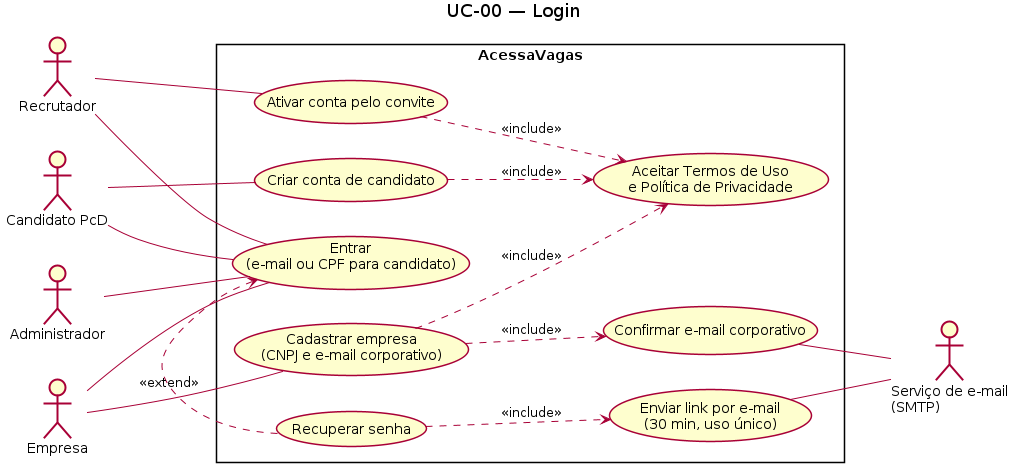
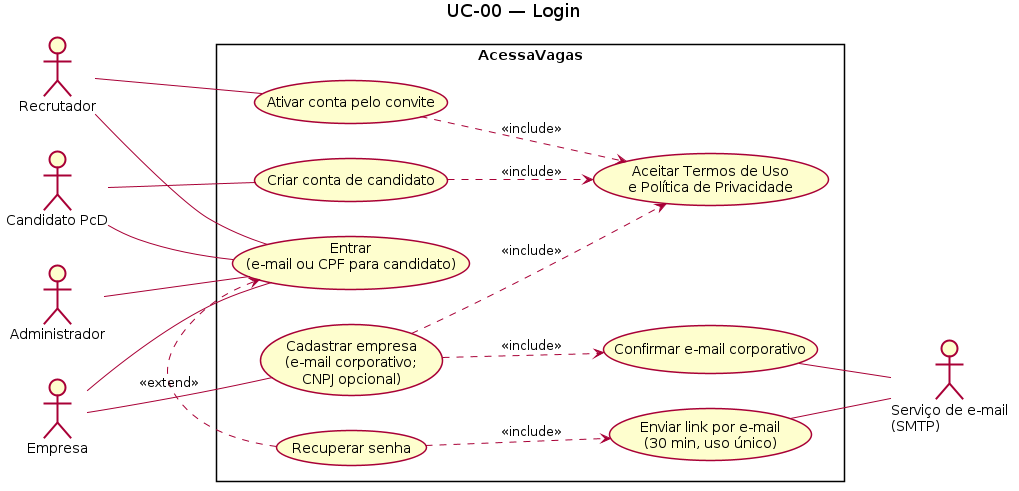
docs: alinhar documentação da main com a versão entregue
- SPEC-006 (vagas externas) registrada como implementação futura, com
  código só na branch desenvolvimento-do-projeto; OPEN-102 resolvida
  na main com a decisão de 24/11/2026.
- CNPJ opcional no UC-00, UC-geral, personas, visão e modelo conceitual
  (diagrama UC-00 regerado).
- Competências: nota de retorno na SPEC-002 e passo no roteiro manual.
- README com estado de 26/11/2026; regra do plano Hobby no deploy.
- Diagrama UC-14 atualizado. Nenhum código alterado.

Claude-Session: https://claude.ai/code/session_01YXXTaHD2ANVgomCBMh4Lbn

diff --git a/docs/OPEN.md b/docs/OPEN.md
@@ -2,10 +2,10 @@
 
 Este arquivo centraliza lacunas e decisões pendentes da baseline. Cada questão possui um ID estável e aponta para as Specs afetadas. A presença de uma questão aqui **não significa que a decisão já foi tomada**.
 
-## Situação em 23/11/2026
+## Situação em 26/11/2026
 
-- **94 questões** registradas (OPEN-001 a OPEN-101; a OPEN-102 existe só no PR #68, junto com a SPEC-006).
-- **84 resolvidas**, **1 parcialmente resolvida** (OPEN-008) e **9 abertas** (OPEN-092, 093, 095 a 101).
+- **95 questões** registradas (OPEN-001 a OPEN-102).
+- **85 resolvidas**, **1 parcialmente resolvida** (OPEN-008) e **9 abertas** (OPEN-092, 093, 095 a 101).
 - Todas as abertas já têm **implementação provisória** em funcionamento na `main`, descrita na própria linha; o que falta é a decisão definitiva do responsável. Nenhuma delas bloqueia o uso do sistema.
 
 | OPEN | Spec | O que está em vigor | O que falta decidir |
@@ -242,6 +242,7 @@ Antes de discutir OPEN-001 em diante, o grupo deve revisar e validar os seguinte
 | OPEN-099 | aberta | Qual o tamanho máximo dos comprovantes de cursos e certificações (SPEC-002) e onde eles ficam guardados na hospedagem? | Implementação provisória (01/11/2026, preparação para a Vercel): o limite passou de 10 MB para 4 MB, porque a Vercel recusa requisições acima de 4,5 MB; o conteúdo dos arquivos passou do disco do servidor para o banco de dados (tabela própria, acesso só pelo dono), já que a hospedagem não tem disco persistente. Arquivos enviados antes continuam sendo lidos da pasta local na instalação de desenvolvimento. Para voltar a 10 MB seria preciso envio direto a um serviço de armazenamento de arquivos (por exemplo, Vercel Blob), com URLs privadas e assinadas. |
 | OPEN-100 | aberta | Como o AcessaVagas informa e obtém o aceite dos titulares (LGPD) e o consentimento para os dados de acessibilidade, que são dados pessoais sensíveis (art. 5º, II, e art. 11)? | **Decisão do responsável em 05/11/2026 (opção completa), implementação provisória:** (1) páginas públicas de Termos de Uso (`/termos-de-uso`) e Política de Privacidade (`/privacidade`), versionadas (versão 2026-11-05), redigidas como rascunho acadêmico que descreve só o que o sistema faz (dados, finalidades, compartilhamento com empresas e com Vercel, Neon, Brevo e HERE, retenção, segurança, direitos e contato por `LEGAL_CONTACT_EMAIL`); (2) "Li e concordo" obrigatório e nunca pré-marcado no cadastro de candidato e de empresa e na ativação da conta de recrutador pelo convite, gravado com a versão na mesma transação que cria a conta (sem aceite, não há conta); (3) consentimento específico e destacado para os dados de acessibilidade no perfil do candidato: sem ele as necessidades e os recursos indispensáveis não são salvos, não entram na compatibilidade nem aparecem para as empresas (perfis antigos sem consentimento ficam sem uso até o candidato autorizar); a retirada apaga esses dados do perfil e é registrada; (4) histórico em `ConsentRecord`, só de inclusão (gatilho no banco recusa alterações), e eventos de auditoria. A frase "Ao continuar, você concorda…" da página inicial (aceite presumido) foi substituída por links. **Em aberto:** revisão jurídica dos textos; pedido de novo aceite a contas criadas antes desta versão; exclusão de conta pelo próprio usuário (hoje por contato com a equipe). |
 | OPEN-101 | aberta | Como o site evita a perda de alterações não salvas e como funciona a foto de perfil? | **Decisão do responsável em 09/11/2026, implementação provisória:** (1) ao sair de uma página com alterações não salvas (perfil do candidato, editor de vaga, infraestrutura da empresa) por um link do site ou por "Sair da conta", aparece o aviso "Deseja salvar as alterações antes de sair?" com "Salvar e sair" (só sai se o salvamento der certo), "Sair sem salvar" e "Cancelar" (Esc e foco inicial no diálogo); nos formulários que enviam em vez de salvar (denúncia e avaliação do processo) o aviso é "Sair sem enviar?"; ao recarregar, fechar a aba ou ir para outro site, o navegador mostra o aviso genérico dele (o texto não pode ser personalizado); (2) foto de perfil opcional para candidato e recrutador, cortada no navegador em quadrado de 512 px JPEG, até 1 MB, só JPG, PNG ou WebP (o tipo é conferido pelos bytes), guardada no banco (tabela `UserPhoto`, apagada junto com a conta), servida só ao dono e, no caso do candidato, às empresas e recrutadores das vagas em que ele se candidatou (escolha do responsável); troca e remoção ficam na auditoria; a Política de Privacidade passou à versão 2026-11-09. **Limitação conhecida:** o botão Voltar do navegador não mostra o aviso. **Em aberto:** se a foto deve ser ocultada das empresas até alguma etapa do processo, para reduzir viés na seleção. |
+| OPEN-102 | resolvida | Como a SPEC-006 entra nesta versão do projeto? | **Decisão do responsável em 24/11/2026:** a SPEC-006 (vagas externas do Adzuna) fica fora da versão entregue, como implementação futura. O código (lote de teste de 25 chamadas, coleta diária desligada, LLM desligada por padrão, vaga externa sem candidatura nem denúncia e sem cálculo de compatibilidade) está só na branch `desenvolvimento-do-projeto` (PR #68) e não vai para a `main`. Substitui a decisão de 18/11/2026, que previa a entrada na versão se estivesse pronta e testada até 21/11/2026. Na `main`, RF-05, RF-36 e RF-37 seguem como *Optional feature* e a busca mostra só vagas publicadas na plataforma. |
 
 ## Decisões consolidadas
 

diff --git a/README.md b/README.md
@@ -18,7 +18,7 @@ Repositório para o trabalho de modelagem de sistemas - GRUPO: Gabriella Mansur 
   * Com dados faltando, o resultado é "dados insuficientes", sem presumir compatibilidade.
 * **Avaliação pós-entrevista:** depois de uma entrevista concluída, o candidato avalia acessibilidade e postura inclusiva (1 a 5 estrelas). A nota pública da empresa mostra só a distribuição de estrelas, sem identificar ninguém.
 * **Denúncia moderada:** quem participou do processo pode denunciar incompatibilidade ou falsa inclusão; a administração analisa em até 5 dias úteis, pode ouvir a empresa (sem revelar o denunciante) e registra a decisão.
-* **Publicação nativa de vagas:** a empresa e seus recrutadores cadastram vagas declarando a acessibilidade item a item. Vagas externas (SPEC-006) estão em revisão no PR #68 e não fazem parte da versão atual.
+* **Publicação nativa de vagas:** a empresa e seus recrutadores cadastram vagas declarando a acessibilidade item a item. Vagas externas (SPEC-006) ficaram como implementação futura, fora da versão entregue: o código está só na branch `desenvolvimento-do-projeto` (OPEN-102).
 * **Acessibilidade por design (WCAG 2.2 AA):** em conformidade com a Lei Brasileira de Inclusão (LBI nº 13.146/2015): leitores de tela, navegação por teclado, alto contraste e tema escuro. Comandos de voz próprios não fazem parte desta versão.
 * **Funil seletivo transparente:** etapas, histórico e entrevistas visíveis ao candidato, com avisos na plataforma e por e-mail a cada mudança.
 
@@ -47,10 +47,11 @@ O projeto segue o processo SDD (Spec-Driven Development). A documentação fica 
 | Operação, publicação e roteiros de teste manual | [`docs/operacao/`](docs/operacao/) |
 | Identidade visual e layout | [`docs/Identidade Visual/`](docs/Identidade%20Visual/), [`docs/layout/`](docs/layout/) |
 
-# Estado atual (23/11/2026)
+# Estado atual (26/11/2026)
 
 - **Implementado na `main`:** SPEC-001 a SPEC-005 e SPEC-007 a SPEC-021: cadastro e entrada dos quatro perfis, perfil do candidato com consentimento para dados de acessibilidade, infraestrutura da empresa e recrutadores, vagas, compatibilidade, busca, candidatura, funil com entrevistas, avisos, avaliação, nota pública, denúncias e moderação.
-- **Em revisão:** SPEC-006 (vagas externas, PR #68) e roteiro de comandos de voz (PR #67).
+- **Mudanças de 24/11/2026:** o perfil do candidato voltou a ter o campo Competências, usado também no cálculo do perfil técnico da compatibilidade; a busca deixou de ter o filtro por cargo e as listas de Localização e Área profissional ficam recolhidas quando têm mais de 6 opções.
+- **Implementações futuras (fora da versão entregue):** SPEC-006 (vagas externas do Adzuna), com código só na branch `desenvolvimento-do-projeto` (OPEN-102), e comandos de voz próprios (roteiro proposto no PR #67, fechado sem merge).
 - **Situação das SPEC-019 e SPEC-020:** implementadas; o estado de teste manual e de layout está no registro consolidado de `docs/Specs.md`. As questões abertas estão resumidas em `docs/OPEN.md`.
 - **Qualidade:** a CI roda checagem de tipos, lint, testes (Vitest, com verificação axe-core das telas), build e o teste de ponta a ponta `scripts/auth-e2e.mjs` em todo pull request.
 

diff --git a/docs/Specs.md b/docs/Specs.md
@@ -1257,8 +1257,8 @@ dos em `docs/layout/` e aprovados separadamente.
 | Campo | Valor |
 |---|---|
 | ID | SPEC-006 |
-| Estado do texto | aprovada; **não implementada na `main`**. A implementação está em revisão no PR #68 (branch `feat/spec-006-vagas-externas`) e a decisão de incluí-la no escopo ainda não foi tomada. Por isso os critérios abaixo continuam desmarcados e RF-05, RF-36 e RF-37 são tratados como *Optional feature* |
-| Estado do layout | não se aplica ao núcleo de ingestão; a tela administrativa `/admin/vagas-externas` existe só no PR #68, sem aprovação de layout |
+| Estado do texto | aprovada; **não implementada na `main`**. Decisão de 24/11/2026 (OPEN-102): fica como implementação futura, fora da versão entregue; o código está só na branch `desenvolvimento-do-projeto` (PR #68). Por isso os critérios abaixo continuam desmarcados e RF-05, RF-36 e RF-37 são tratados como *Optional feature* |
+| Estado do layout | não se aplica ao núcleo de ingestão; a tela administrativa `/admin/vagas-externas` existe só na branch `desenvolvimento-do-projeto`, sem aprovação de layout |
 | Capacidade | Receber dados externos estruturados, validar, normalizar, deduplicar e registrar o resultado da ingestão |
 
 ## 2. Rastreabilidade
@@ -3227,7 +3227,7 @@ As decisões de apresentação por estrelas, mínimo de uma avaliação válida 
 | SPEC-009 a SPEC-013 | aprovadas | Nenhum bloqueio por OPEN-088. SPEC-010 depende da SPEC-007. |
 | SPEC-016 a SPEC-021 | aprovadas | Nenhum bloqueio por OPEN-088. |
 
-### Situação da implementação (main, 23/11/2026)
+### Situação da implementação (main, 26/11/2026)
 
 | Spec | Situação | Pendências registradas |
 |---|---|---|
@@ -3236,7 +3236,7 @@ As decisões de apresentação por estrelas, mínimo de uma avaliação válida 
 | SPEC-003 | implementada e encerrada (28/10/2026), exceto comandos de voz | voz (PR #67); plano formal de avaliação (OPEN-015/016) |
 | SPEC-004 | implementada e encerrada (27/10/2026), exceto divergências recorrentes (seção 5.5) | RB-08 adiada |
 | SPEC-005 | implementada (27/10/2026 e 31/10/2026) | — |
-| SPEC-006 | **não implementada na `main`**; implementação em revisão no PR #68 | decisão de escopo pendente |
+| SPEC-006 | **não implementada na `main`**; implementação futura, com código só na branch `desenvolvimento-do-projeto` | fora da versão entregue (OPEN-102) |
 | SPEC-007 | implementada e encerrada (29/10/2026), exceto critérios de vagas externas | depende da SPEC-006 |
 | SPEC-008 | implementada e encerrada (29/10/2026), exceto vagas externas | depende da SPEC-006; desempenho sem medição formal |
 | SPEC-009 | implementada e encerrada (31/10/2026) | — |

diff --git a/docs/mapa-specs.md b/docs/mapa-specs.md
@@ -15,7 +15,7 @@ A decomposição segue o critério do processo SDD: **capacidades verticais obse
 
 **Escopo atualizado:** SPEC-014 (Solicitar acomodação) e SPEC-015 (Processar solicitação de acomodação) foram removidas do escopo. Os IDs posteriores foram preservados para evitar quebrar rastreabilidade.
 
-**Situação (23/11/2026):** todas as Specs estão implementadas na `main`, exceto a SPEC-006 (vagas externas), cuja implementação está em revisão no PR #68 com decisão de escopo pendente. A situação detalhada de cada Spec está no "Registro consolidado" ao final de `docs/Specs.md`. Os nomes de entidades seguem o modelo conceitual atual (`docs/Modelo Conceitual/ModeloConceitual.md`).
+**Situação (26/11/2026):** todas as Specs estão implementadas na `main`, exceto a SPEC-006 (vagas externas), que ficou como implementação futura, fora da versão entregue; o código dela está só na branch `desenvolvimento-do-projeto` (OPEN-102). A situação detalhada de cada Spec está no "Registro consolidado" ao final de `docs/Specs.md`. Os nomes de entidades seguem o modelo conceitual atual (`docs/Modelo Conceitual/ModeloConceitual.md`).
 
 ### SPEC-001 — Acessar a plataforma e identificar perfil organizacional
 
@@ -107,7 +107,7 @@ A decomposição segue o critério do processo SDD: **capacidades verticais obse
 | Campo | Conteúdo |
 |---|---|
 | **ID** | SPEC-006 |
-| **Objetivo** | Ingerir dados estruturados de fontes externas, especialmente vagas, validar o JSON recebido, tratar registros inválidos ou incompletos, validar dados extraídos por LLM, normalizar e deduplicar registros e registrar a origem e o resultado da importação antes de disponibilizar vagas válidas ao domínio, preservando os registros válidos existentes. **Situação:** não implementada na `main`; implementação em revisão no PR #68. |
+| **Objetivo** | Ingerir dados estruturados de fontes externas, especialmente vagas, validar o JSON recebido, tratar registros inválidos ou incompletos, validar dados extraídos por LLM, normalizar e deduplicar registros e registrar a origem e o resultado da importação antes de disponibilizar vagas válidas ao domínio, preservando os registros válidos existentes. **Situação:** não implementada na `main`; implementação futura, fora da versão entregue, com código só na branch `desenvolvimento-do-projeto` (OPEN-102). |
 | **Valor** | Integra fontes externas ao AcessaVagas de forma controlada, ampliando o catálogo sem perder integridade, rastreabilidade ou padronização. |
 | **RF** | RF-05, RF-36, RF-37, RF-38, RF-39 |
 | **RB** | RB-10, RB-11, RB-17, RB-18, RB-31, RB-32, RB-33, RB-37, RB-41 |

diff --git a/docs/ADRs/ADRs.md b/docs/ADRs/ADRs.md
@@ -34,7 +34,7 @@ As ADRs registram **o que foi escolhido** quando a escolha é estrutural e difí
 | ADR-004 | Arquitetura em camadas | Alterar posteriormente a organização estrutural exigiria redistribuir responsabilidades e dependências do sistema |
 | ADR-005 | Aplicação web única em Next.js (TypeScript) com PostgreSQL via Prisma | Trocar framework, linguagem ou banco exigiria reescrever telas, rotas, modelo persistido e migrações |
 
-Status de todas: **aceita**. As ADR-001, 002, 004 e 005 estão aplicadas no código desde a primeira implementação (SPEC-001, outubro de 2026); a ADR-004 com desvios registrados. A ADR-003 é a diretriz para quando houver LLM: nesta versão a aplicação não usa LLM (a SPEC-006, única que a usaria, não está implementada na `main`; ver PR #68).
+Status de todas: **aceita**. As ADR-001, 002, 004 e 005 estão aplicadas no código desde a primeira implementação (SPEC-001, outubro de 2026); a ADR-004 com desvios registrados. A ADR-003 é a diretriz para quando houver LLM: nesta versão a aplicação não usa LLM (a SPEC-006, única que a usaria, ficou como implementação futura, com código só na branch `desenvolvimento-do-projeto`).
 
 Cada ADR tem **Status**, **Contexto (por que foi tomada)**, **Decisão**, **Alternativas consideradas** e **Consequências**.
 
@@ -169,7 +169,7 @@ A autorização é aplicada antes da execução das operações de escrita e das
 
 ## Status
 
-Aceita como diretriz. **Não aplicada nesta versão:** a aplicação da `main` não usa LLM. A única funcionalidade que usaria (complemento de dados de vagas externas, SPEC-006) está no PR #68, ainda em análise; nele, a LLM fica atrás de uma porta, só no servidor e desligada por padrão.
+Aceita como diretriz. **Não aplicada nesta versão:** a aplicação da `main` não usa LLM. A única funcionalidade que usaria (complemento de dados de vagas externas, SPEC-006) ficou como implementação futura (OPEN-102), com código só na branch `desenvolvimento-do-projeto`; nele, a LLM fica atrás de uma porta, só no servidor e desligada por padrão.
 
 ## Decisão
 

diff --git a/docs/Drivers Arquiteturais/Drivers Arquiteturais.md b/docs/Drivers Arquiteturais/Drivers Arquiteturais.md
@@ -389,8 +389,8 @@ Esse conjunto representa as principais restrições que o desenho arquitetural p
 | DA-02 Autenticação e autorização | Atendido: sessão no servidor, Argon2id, bloqueio por tentativas, verificação de perfil em toda rota de API | `src/lib/auth`, `src/lib/security`, `src/app/api` |
 | DA-03 Trava de barreira crítica | Atendido: a trava roda antes do cálculo ponderado e prevalece sobre o score | `src/lib/compatibility/engine.ts` |
 | DA-04 Cálculo determinístico | Atendido: função pura, pesos 50/30/20, resultado registrado com versão das regras | `src/lib/compatibility` |
-| DA-05 LLM opcional e substituível | Não aplicado na `main`: não há uso de LLM. A implementação da SPEC-006 (PR #68, em revisão) usa LLM opcional atrás de um adaptador, desligada por padrão | PR #68 |
-| DA-06 Padronização de vagas de várias fontes | Parcial: o modelo de vaga tem o campo `origem`, mas só existe a origem própria. A normalização de vagas externas depende da SPEC-006 | `prisma/schema.prisma` (`Job.origin`), PR #68 |
+| DA-05 LLM opcional e substituível | Não aplicado na `main`: não há uso de LLM. A implementação futura da SPEC-006 (só na branch `desenvolvimento-do-projeto`) usa LLM opcional atrás de um adaptador, desligada por padrão | branch `desenvolvimento-do-projeto` |
+| DA-06 Padronização de vagas de várias fontes | Parcial: o modelo de vaga tem o campo `origem`, mas só existe a origem própria. A normalização de vagas externas depende da SPEC-006 (implementação futura) | `prisma/schema.prisma` (`Job.origin`) |
 | DA-07 Rastreabilidade e anonimato das avaliações | Atendido: avaliações individuais restritas, nota pública só agregada, anonimização após 1 ano, histórico imutável no banco | `src/lib/evaluations`, `src/lib/public-rating`, `scripts/evaluation-retention.mjs` |
 | DA-08 Desempenho | Atendido: chamadas externas com tempo limite (trajeto 8 s), cache do trajeto, e-mails enviados fora da requisição principal | `src/lib/compatibility/travel.ts`, `src/lib/notifications` |
 

diff --git a/docs/Implementacao/SPEC-002.md b/docs/Implementacao/SPEC-002.md
@@ -52,7 +52,7 @@
 
 ## Revisão de 27/10/2026
 
-- Experiências profissionais voltaram à tela como entradas estruturadas (`role`, `company`, `period`); registros antigos em texto são lidos com o texto no cargo. O campo Competências foi retirado da tela, do contrato da API e da validação (a coluna `skills` permanece no banco, sem uso, para evitar migração). Impacto: a SPEC-007 usa competências no perfil técnico e as derivará de escolaridade (nível e curso), cursos, certificações e experiências. Cursos e certificações podem ser registrados só com o nome, e o anexo é opcional.
+- Experiências profissionais voltaram à tela como entradas estruturadas (`role`, `company`, `period`); registros antigos em texto são lidos com o texto no cargo. O campo Competências foi retirado da tela, do contrato da API e da validação (a coluna `skills` permaneceu no banco, sem uso, para evitar migração); ele voltou em 24/11/2026 (ver "Competências" abaixo). Impacto: a SPEC-007 usa competências no perfil técnico e as derivará de escolaridade (nível e curso), cursos, certificações e experiências. Cursos e certificações podem ser registrados só com o nome, e o anexo é opcional.
 - Formação e idiomas passaram a ser objetos estruturados (formação: `level`, `course`, `institution`, `status`; idioma: `language`, `level`), validados no servidor com listas fechadas de nível e situação. Registros antigos em texto "campo — campo" são lidos de forma compatível e convertidos no próximo salvamento; a detecção de mudança para auditoria compara JSON canônico (chaves ordenadas).
 - Rótulos sem controle associado foram corrigidos; botões de remover e baixar identificam o item; a troca da declaração de necessidades pede confirmação quando há seleções.
 - Envio e remoção de anexos geram auditoria (`CANDIDATE_PROFILE_DOCUMENT_ADDED` / `_REMOVED`), registrando só a categoria.

diff --git a/docs/Casos De Uso/UC-geral.md b/docs/Casos De Uso/UC-geral.md
@@ -5,7 +5,7 @@
 | Ator | Quem é | Como entra |
 |---|---|---|
 | Candidato PcD | Pessoa com deficiência procurando vaga | Cria a própria conta; entra com e-mail ou CPF |
-| Empresa | Conta organizacional, com CNPJ e e-mail corporativo confirmado | Cria a própria conta; entra com e-mail |
+| Empresa | Conta organizacional, com e-mail corporativo confirmado (CNPJ opcional) | Cria a própria conta; entra com e-mail |
 | Recrutador | Pessoa convidada pela Empresa, com vínculo ativo | Aceita o convite da Empresa; entra com e-mail |
 | Administrador | Equipe da plataforma | Conta criada pela equipe; entra por `/admin/login` |
 | Serviço de trajeto (HERE) | Sistema externo | Ator secundário do UC-13 |
@@ -31,7 +31,7 @@ Empresa e Recrutador fazem as mesmas operações de vagas e funil, sempre sobre 
 | UC-11 | Denunciar vaga incompatível | Candidato, Administrador, Empresa | Implementado (SPEC-019, SPEC-020) |
 | UC-12 | Status da vaga | Candidato | Implementado (SPEC-009, SPEC-010) |
 | UC-13 | Calcular compatibilidade | Candidato, HERE | Implementado (SPEC-007) |
-| UC-14 | Coletar e ingerir vagas externas | Sistema, Adzuna, Administrador | Não implementado na `main` (SPEC-006 em revisão no PR #68) |
+| UC-14 | Coletar e ingerir vagas externas | Sistema, Adzuna, Administrador | Não implementado na `main`: implementação futura (SPEC-006, OPEN-102) |
 
 Os avisos (na plataforma e por e-mail, SPEC-017) acompanham UC-03, UC-05, UC-08, UC-09 e UC-11 e não têm caso de uso próprio.
 

diff --git a/docs/Requisitos/RF.md b/docs/Requisitos/RF.md
@@ -109,19 +109,19 @@ Comandos de voz próprios do sistema não fazem parte desta versão (seção 5.4
 
 ### RF-05 Importação de vagas externas
 
-**Tipo EARS:** Optional feature · **Specs:** SPEC-006 (decisão de escopo pendente)
+**Tipo EARS:** Optional feature · **Specs:** SPEC-006 (implementação futura, fora da versão entregue)
 
 **WHERE** a importação de vagas externas estiver habilitada, o sistema **SHALL** mostrar ao candidato as vagas externas validadas, com a origem e o link do anúncio original (RB-10, RB-33).
 
 ### RF-36 Importação de dados estruturados
 
-**Tipo EARS:** Optional feature · **Specs:** SPEC-006 (decisão de escopo pendente)
+**Tipo EARS:** Optional feature · **Specs:** SPEC-006 (implementação futura, fora da versão entregue)
 
 **WHERE** a importação de vagas externas estiver habilitada, o sistema **SHALL** receber as vagas no formato JSON da fonte autorizada, respeitando o limite de chamadas configurado, e **SHALL** registrar cada execução e o resultado de cada registro.
 
 ### RF-37 Normalização de dados externos
 
-**Tipo EARS:** Optional feature · **Specs:** SPEC-006 (decisão de escopo pendente)
+**Tipo EARS:** Optional feature · **Specs:** SPEC-006 (implementação futura, fora da versão entregue)
 
 **WHERE** a importação de vagas externas estiver habilitada, o sistema **SHALL** converter cada registro válido para o modelo comum de vaga e descartar duplicados (RB-31), sem presumir dados de acessibilidade.
 

diff --git a/docs/Casos De Uso/UC-14-ingestao-json.md b/docs/Casos De Uso/UC-14-ingestao-json.md
@@ -1,6 +1,6 @@
 # UC-14 — Coletar e Ingerir Vagas Externas
 
-> **Situação nesta versão (main):** não implementado. A implementação (SPEC-006) está em revisão no PR #68 e a decisão de incluí-la no escopo ainda não foi tomada. No PR #68, a complementação por LLM (ADR-003) é opcional e vem desligada por padrão; desligada, os registros sem os dados mínimos são rejeitados. Enquanto isso, RF-05, RF-36 e RF-37 ficam como requisitos opcionais (*Optional feature*) e a busca e a candidatura consideram somente vagas publicadas por empresas na plataforma. O fluxo abaixo descreve o comportamento previsto na SPEC-006.
+> **Situação nesta versão (main):** não implementado. Decisão de 24/11/2026 (OPEN-102): a SPEC-006 fica como implementação futura, fora da versão entregue; o código está só na branch `desenvolvimento-do-projeto`. Nesse código, a complementação por LLM (ADR-003) é opcional e vem desligada por padrão; desligada, os registros sem os dados mínimos são rejeitados. Enquanto isso, RF-05, RF-36 e RF-37 ficam como requisitos opcionais (*Optional feature*) e a busca e a candidatura consideram somente vagas publicadas por empresas na plataforma. O fluxo abaixo descreve o comportamento previsto na SPEC-006.
 
 ## Objetivo
 Coletar automaticamente vagas de fontes externas autorizadas, inicialmente pela API do Adzuna, e processá-las com validação, eventual enriquecimento por LLM, normalização, deduplicação e rastreabilidade.

diff --git a/docs/operacao/validacao-manual-spec-002.md b/docs/operacao/validacao-manual-spec-002.md
@@ -16,7 +16,8 @@ Veja os comandos de subida do ambiente no README (seção de execução local). 
 | 1.4 | Adicionar a mesma formação de novo | Mensagem de erro de duplicidade |
 | 1.5 | Adicionar formação sem instituição | Mensagem pedindo curso e instituição |
 | 1.6 | Idiomas: adicionar Inglês/Avançado; depois "Outro" com idioma digitado | Itens listados; duplicado é recusado |
-| 1.7 | Experiências: preencher cargo, empresa e período e "Adicionar experiência"; tentar sem empresa | Item aparece como "cargo · empresa · período"; sem cargo ou empresa mostra erro; não existe campo Competências |
+| 1.7 | Experiências: preencher cargo, empresa e período e "Adicionar experiência"; tentar sem empresa | Item aparece como "cargo · empresa · período"; sem cargo ou empresa mostra erro |
+| 1.7a | Competências: adicionar "Excel" e "Atendimento ao cliente"; tentar repetir "Excel"; salvar e recarregar | As duas competências aparecem depois de recarregar; a repetida é recusada com mensagem |
 | 1.8 | Cursos e certificações: adicionar só pelo nome | Adiciona sem exigir arquivo |
 | 1.8b | Preferências de trabalho: marcar Híbrido e Remoto, preencher cidade, estado, endereço e transporte; salvar e recarregar | Valores persistem; tudo é opcional; estado/endereço sem cidade dá erro |
 | 1.9 | Link profissional inválido (`abc`) e válido (`https://exemplo.com`) | Inválido recusado com mensagem; válido aceito |
